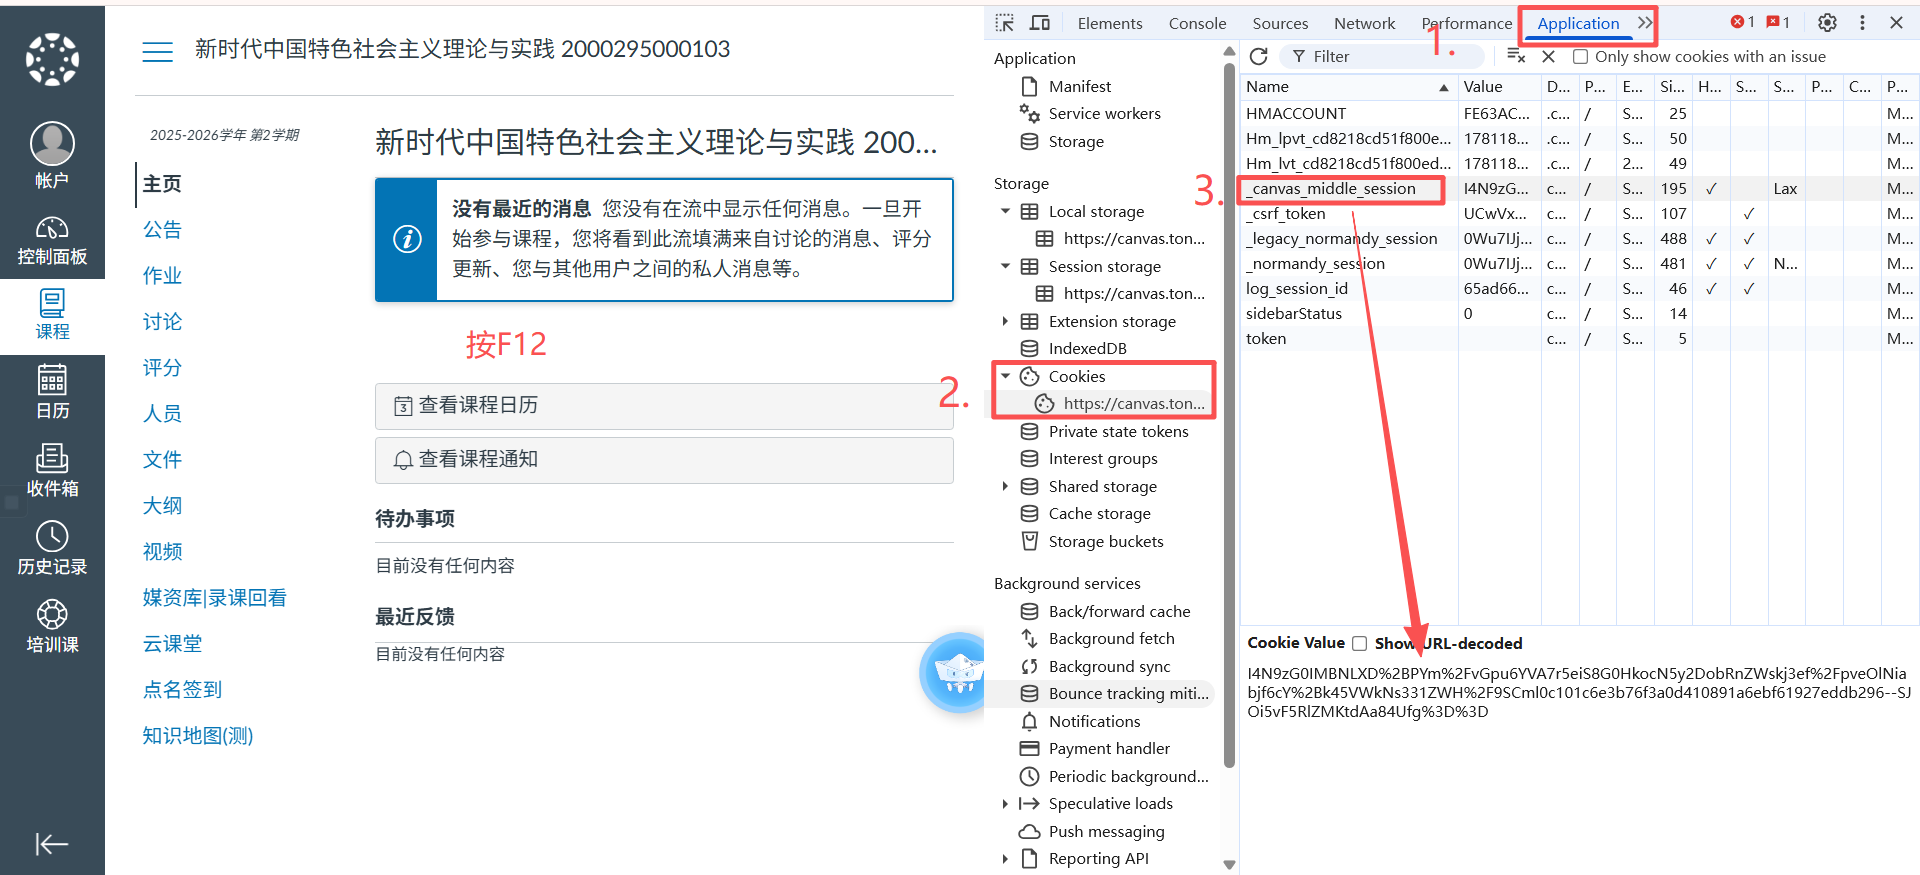
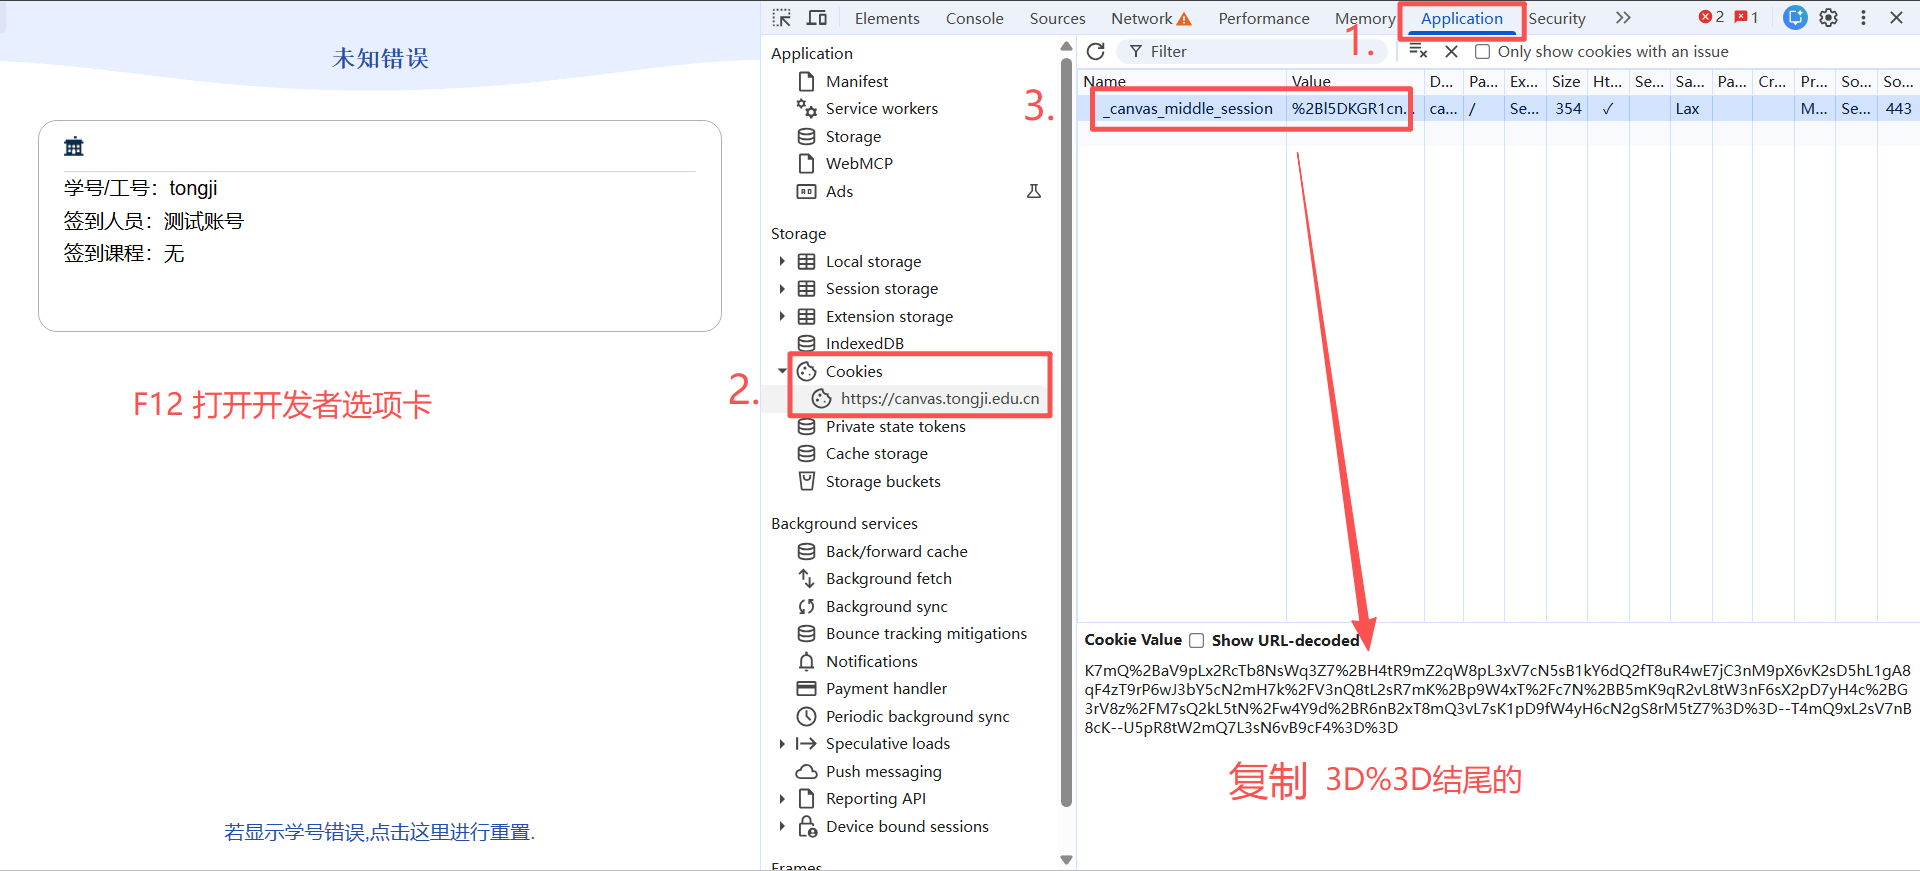
doc：修改说明文档

diff --git a/guide.html b/guide.html
@@ -95,6 +95,7 @@
         .step-body code {
             background: var(--blue-light); color: var(--blue);
             padding: 1px 6px; border-radius: 4px; font-size: 13px;
+            overflow-wrap: anywhere;
         }
         .step-body strong { color: var(--ink); }
 
@@ -187,12 +188,12 @@
         <div class="step">
             <div class="step-head">
                 <div class="step-num">1</div>
-                <div class="step-title">拿到你的 Cookie</div>
+                <div class="step-title">获取你的 Cookie</div>
             </div>
             <div class="step-body">
-                <p>打开<a href="https://canvas.tongji.edu.cn" target="_blank" rel="noopener">同济 Canvas</a> 登录后，进到<strong>任意课程页面</strong>。</p>
-                <p>按 <strong>F12</strong> → 切到 <strong>Application</strong> → 左侧 <strong>Cookies</strong> → 找到 <code>_canvas_middle_session</code> → <strong>复制完整值</strong>。找不到就先进到“点名签到”的选项卡，再按F12一定有，多刷新几次。</p>
-                <div class="img-ph"><img src="./1.png" alt="在开发者工具中复制 Cookie"></div>
+                <p>打开<a href="https://canvas.tongji.edu.cn" target="_blank" rel="noopener">同济 Canvas</a> 并完成登录，再进入<a href="https://canvas.tongji.edu.cn/lms/mobile/forscan?courseCode=2333&amp;rollCallToken=2333" target="_blank" rel="noopener">签到页面</a>。</p>
+                <p>按 <strong>F12</strong> 打开开发者工具 → 切换到 <strong>Application</strong> 标签页 → 左侧导航栏找到 <strong>Cookies</strong> → 定位到 <code>_canvas_middle_session</code> → <strong>复制完整值（以 %3D%3D 结尾）</strong>。</p>
+                <div class="img-ph"><img src="./pic/1.png" alt="在开发者工具中复制 Cookie"></div>
             </div>
         </div>
 
@@ -202,32 +203,33 @@
                 <div class="step-title">粘贴并签到</div>
             </div>
             <div class="step-body">
-                <p><strong>方式一：</strong>回到本页面，把 Cookie 粘贴到输入框，点签到。</p>
-                <div class="img-ph"><img src="./2.png" alt="粘贴 Cookie 输入框"></div>
-                <p><strong>方式二（推荐）：</strong>把 Cookie 拼到 URL 里，以后打开就自动跳过输入，只剩一个扫码按钮：</p>
+                <p><strong>方式一：手动粘贴。</strong>回到<a href="index.html">签到工具页面</a>，粘贴复制的 Cookie 值或完整 Cookie，再点击“扫描二维码”。点击后会自动补齐或合并重复的 <code>_canvas_middle_session=</code> 前缀，并校准格式。</p>
+                <div class="img-ph"><img src="./pic/2.png" alt="粘贴 Cookie 输入框"></div>
+                <p><strong>方式二（推荐）：URL 免输入。</strong>将 Cookie 值拼接至以下 URL 中，后续打开该 URL 可直接跳过输入步骤，仅需扫码签到：</p>
                 <p><code>https://handsome.eu.org/canvas/index.html?_canvas_middle_session=你的Cookie</code></p>
-                <div class="img-ph"><img src="./3.png" alt="URL 方式直接扫码"></div>
+                <div class="img-ph"><img src="./pic/3.png" alt="URL 方式直接扫码"></div>
             </div>
             <div class="tip">
-            <div class="tip-text">推荐每个人都用方式二构造自己的 URL，永久使用，不会过期。转发给对方打开就能直接扫码。</div>
-        </div>
+                <div class="tip-label">💡 提示</div>
+                <div class="tip-text">推荐每个人构造专属 URL，可永久使用不会过期，转发给他人打开即可直接扫码。</div>
+            </div>
         </div>
     </div>
 
     <!-- 测试 -->
     <div class="card">
-        <div class="card-title">先试试能不能用</div>
-        <div class="card-desc">扫下面这个测试二维码，确认工具正常工作</div>
+        <div class="card-title">功能测试</div>
+        <div class="card-desc">扫描下方测试二维码，验证工具是否正常工作</div>
         <div class="step-body" style="padding-left:0;">
-            <div class="img-ph"><img src="./qrcode.png" alt="测试二维码"></div>
-            <p>扫码后自动签到，正常应显示：未加入此课程：</p>
-            <p>🟢 <strong style="color:#22C55E">签到成功</strong> — 搞定<br>
-               🔵 <strong style="color:#06B6D4">已签过到</strong> — 你已经签过了<br>
-               🔴 <strong style="color:#EF4444">签到失败</strong> — 若返回了登陆页，说明你找的Cookie有问题</p>
+            <div class="img-ph"><img src="./pic/qrcode.png" alt="测试二维码"></div>
+            <p>扫码后工具会自动签到，正常应显示签到页：“未加入此课程”。</p>
+            <p>🟢 <strong style="color:#22C55E">签到成功</strong> — 工具正常可用<br>
+               🔵 <strong style="color:#06B6D4">已签过到</strong> — 你已完成本次签到<br>
+               🔴 <strong style="color:#EF4444">签到失败</strong> — 若跳转至登录页，说明 Cookie 无效</p>
         </div>
         <div class="tip">
             <div class="tip-label">💡 提示</div>
-            <div class="tip-text">手机可以<strong>双指缩放</strong>放大二维码，距离远也能扫。光线好 + 二维码居中 = 秒扫。</div>
+            <div class="tip-text">手机可通过<strong>双指缩放</strong>放大二维码，扫码时保持二维码居中、光线充足，可实现秒扫。</div>
         </div>
     </div>
 
@@ -237,34 +239,34 @@
 
         <div class="faq">
             <button class="faq-q" onclick="this.parentElement.classList.toggle('open')">
-                <span>相机打不开？</span>
+                <span>📷 相机打不开？</span>
                 <svg class="faq-arrow" viewBox="0 0 24 24" fill="none" stroke="currentColor" stroke-width="2" stroke-linecap="round" stroke-linejoin="round"><polyline points="6 9 12 15 18 9"/></svg>
             </button>
-            <div class="faq-a">推荐用 <strong>Safari</strong> 或 <strong>Chrome</strong> 浏览器打开。检查：① 浏览器有摄像头权限；② 浏览器弹了权限窗口要点"允许"；③ 摄像头没被别的 app 占。扫描在弹窗里进行，记得<strong>允许弹窗</strong>。</div>
+            <div class="faq-a">推荐使用 <strong>Safari</strong> 或 <strong>Chrome</strong> 浏览器。检查：① 浏览器已获取摄像头权限；② 浏览器弹出权限请求时选择“允许”；③ 摄像头未被其他应用占用；④ 允许浏览器弹出窗口，扫码功能在弹窗中运行。</div>
         </div>
 
         <div class="faq">
             <button class="faq-q" onclick="this.parentElement.classList.toggle('open')">
-                <span>扫不到二维码？</span>
+                <span>🚫 扫不到二维码？</span>
                 <svg class="faq-arrow" viewBox="0 0 24 24" fill="none" stroke="currentColor" stroke-width="2" stroke-linecap="round" stroke-linejoin="round"><polyline points="6 9 12 15 18 9"/></svg>
             </button>
-            <div class="faq-a">① 让二维码占画面 <strong>1/3 ~ 1/2</strong>，别太小；② 光线要够，避免反光；③ 手机双指放大，用的是光学变焦不会糊。</div>
+            <div class="faq-a">① 让二维码占画面的 <strong>1/3 ~ 1/2</strong>，避免画面占比过小；② 保证扫码环境光线充足，避免二维码反光；③ 手机双指放大二维码，光学变焦不会导致模糊。</div>
         </div>
 
         <div class="faq">
             <button class="faq-q" onclick="this.parentElement.classList.toggle('open')">
-                <span>签到失败？</span>
+                <span>❌ 签到失败？</span>
                 <svg class="faq-arrow" viewBox="0 0 24 24" fill="none" stroke="currentColor" stroke-width="2" stroke-linecap="round" stroke-linejoin="round"><polyline points="6 9 12 15 18 9"/></svg>
             </button>
-            <div class="faq-a">最常见：<strong>签到超时</strong>，教室里人比较多，网络不稳定。一定要多试几次。</div>
+            <div class="faq-a">最常见原因：<strong>签到超时</strong>（教室网络不稳定或人数较多），建议多次尝试。</div>
         </div>
 
         <div class="faq">
             <button class="faq-q" onclick="this.parentElement.classList.toggle('open')">
-                <span>Cookie 怎么拿？</span>
+                <span>🍪 Cookie 怎么拿？</span>
                 <svg class="faq-arrow" viewBox="0 0 24 24" fill="none" stroke="currentColor" stroke-width="2" stroke-linecap="round" stroke-linejoin="round"><polyline points="6 9 12 15 18 9"/></svg>
             </button>
-            <div class="faq-a">看步骤 1 的截图照着来。简单说：Canvas 登录状态 → F12 → Application → Cookies → 找 <code>_canvas_middle_session</code> → 复制值。</div>
+            <div class="faq-a">参考“步骤 1”操作：Canvas 保持登录状态 → F12 → Application → Cookies → 复制 <code>_canvas_middle_session</code> 的值。</div>
         </div>
     </div>
 
@@ -272,23 +274,31 @@
     <div class="card">
         <div class="card-title">注意事项</div>
         <div class="step-body" style="padding-left:0;">
-            <p>本项目还有安卓版apk，特别好用。</p>
-            <p>⚠ <strong>免责：</strong>仅供学习交流，请遵守学校规定，后果自负。</p>
-            <p>⭐ <strong>开源：</strong>欢迎 Issue / PR， 我要Star[伸手] 球球了</p>
+            <p>本项目也提供安卓版 APK，使用体验更佳。</p>
+            <p>⚠ <strong>免责声明：</strong>仅供学习交流使用，请遵守学校相关规定，使用后果自负。</p>
+            <p>⭐ <strong>开源支持：</strong>欢迎提交 Issue / PR，期待你的 Star 支持！</p>
         </div>
         <div class="alert" style="margin-bottom:8px;">
             <div class="alert-label">🤖 安卓版</div>
             <div class="alert-text">
-                <a href="https://github.com/mmmlllnnn/TongJi_Canvas" target="_blank" rel="noopener">github.com/mmmlllnnn/TongJi_Canvas</a>
+                <a href="https://github.com/mmmlllnnn/TongJi_Canvas" target="_blank" rel="noopener">TongJi_Canvas</a>
                 &nbsp;·&nbsp; 特别好用，强烈推荐
             </div>
         </div>
         <div class="alert">
             <div class="alert-label">🌐 Web 版</div>
             <div class="alert-text">
-                <a href="https://github.com/mmmlllnnn/TongJi_Canvas_Web" target="_blank" rel="noopener">github.com/mmmlllnnn/TongJi_Canvas_Web</a>
-                &nbsp;·&nbsp; 轻量化，省心。
+                <a href="https://github.com/mmmlllnnn/TongJi_Canvas_Web" target="_blank" rel="noopener">TongJi_Canvas_Web</a>
+                &nbsp;·&nbsp; 轻量化，省心
             </div>
+        </div>
+    </div>
+
+    <!-- 部署说明 -->
+    <div class="card">
+        <div class="card-title">部署说明</div>
+        <div class="step-body" style="padding-left:0;">
+            <p>源码需部署在支持 PHP 的服务器环境中。</p>
         </div>
     </div>
 
@@ -298,8 +308,7 @@
     <div class="footer-links">
         <a class="footer-link" href="index.html">返回签到</a>
         <a class="footer-link" href="https://github.com/mmmlllnnn/TongJi_Canvas" target="_blank" rel="noopener">GitHub</a>
-        <a class="footer-link" href="https://github.com/mmmlllnnn/TongJi_Canvas/issues" target="_blank" rel="noopener">反馈问题</a>
-        <a class="footer-link" href="https://github.com/mmmlllnnn/TongJi_Canvas/pulls" target="_blank" rel="noopener">PR</a>
+        <a class="footer-link" href="https://github.com/mmmlllnnn/TongJi_Canvas_Web/issues" target="_blank" rel="noopener">反馈问题</a>
     </div>
     <p class="footer-copy">开源项目 · 仅供学习交流</p>
 </footer>

diff --git a/README.md b/README.md
@@ -2,9 +2,9 @@
 
 Web版同济大学Canvas系统课堂签到助手 
 
-多多宣传，点点star~ 
 
-[在线版访问：https://handsome.eu.org/canvas/index.html](https://handsome.eu.org/canvas/index.html)
+
+[在线访问：https://handsome.eu.org/canvas/index.html](https://handsome.eu.org/canvas/index.html)
 
 推荐构造专属 URL，可永久使用，转发给他人打开即可直接扫码签到。
 
@@ -12,9 +12,8 @@ Web版同济大学Canvas系统课堂签到助手
 两步搞定：拿到 Cookie → 粘贴签到
 
 ### 步骤 1：获取你的 Cookie
-1. 打开[同济 Canvas](https://canvas.tongji.edu.cn) 并完成登录，进入**任意课程页面**。
-2. 按下 `F12` 打开开发者工具 → 切换到 `Application` 标签页 → 左侧导航栏找到 `Cookies` → 定位到 `_canvas_middle_session` → **复制完整的值**。
-若找不到该字段，先进入“点名签到”选项卡，再按 `F12`（可多刷新几次）。
+1. 打开 [同济 Canvas](https://canvas.tongji.edu.cn) 并完成登录，进入 [此页面](https://canvas.tongji.edu.cn/lms/mobile/forscan?courseCode=2333&rollCallToken=2333)。
+2. 按下 `F12` 打开开发者工具 → 切换到 `Application` 标签页 → 左侧导航栏找到 `Cookies` → 定位到 `_canvas_middle_session` → **复制完整值(3D%3D结尾)**。
 
 ![在开发者工具中复制 Cookie](./pic/1.png)
 
@@ -71,8 +70,8 @@ https://handsome.eu.org/canvas/index.html?_canvas_middle_session=你的Cookie
 3. ⭐ 开源支持：欢迎提交 Issue / PR，期待你的 Star 支持！
 
 ### 相关链接
-- 🤖 安卓版：[github.com/mmmlllnnn/TongJi_Canvas](https://github.com/mmmlllnnn/TongJi_Canvas)（特别好用，强烈推荐）
-- 🌐 Web 版：[github.com/mmmlllnnn/TongJi_Canvas_Web](https://github.com/mmmlllnnn/TongJi_Canvas_Web)（轻量化，省心）
+- 🤖 安卓版：[TongJi_Canvas](https://github.com/mmmlllnnn/TongJi_Canvas)（特别好用，强烈推荐）
+- 🌐 Web 版：[gTongJi_Canvas_Web](https://github.com/mmmlllnnn/TongJi_Canvas_Web)（轻量化，省心）
 
 ---
 
